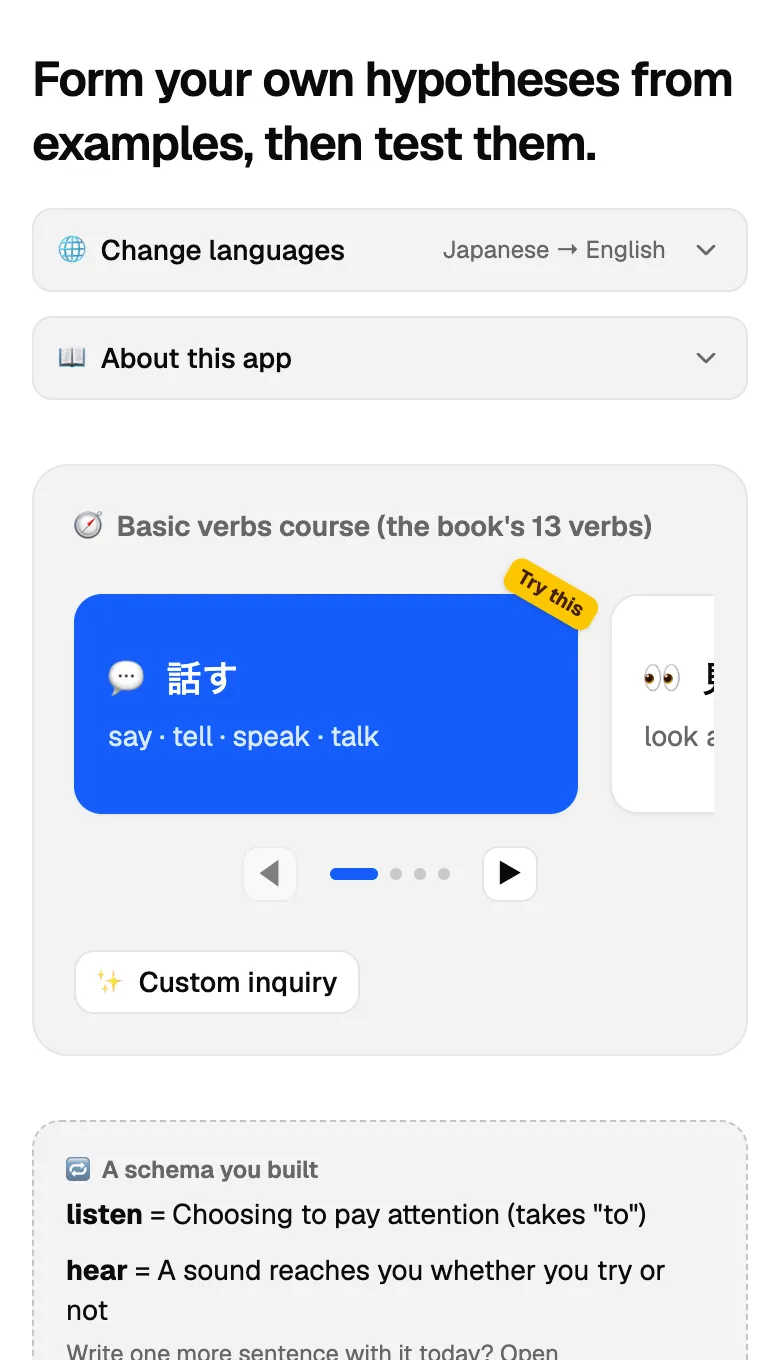
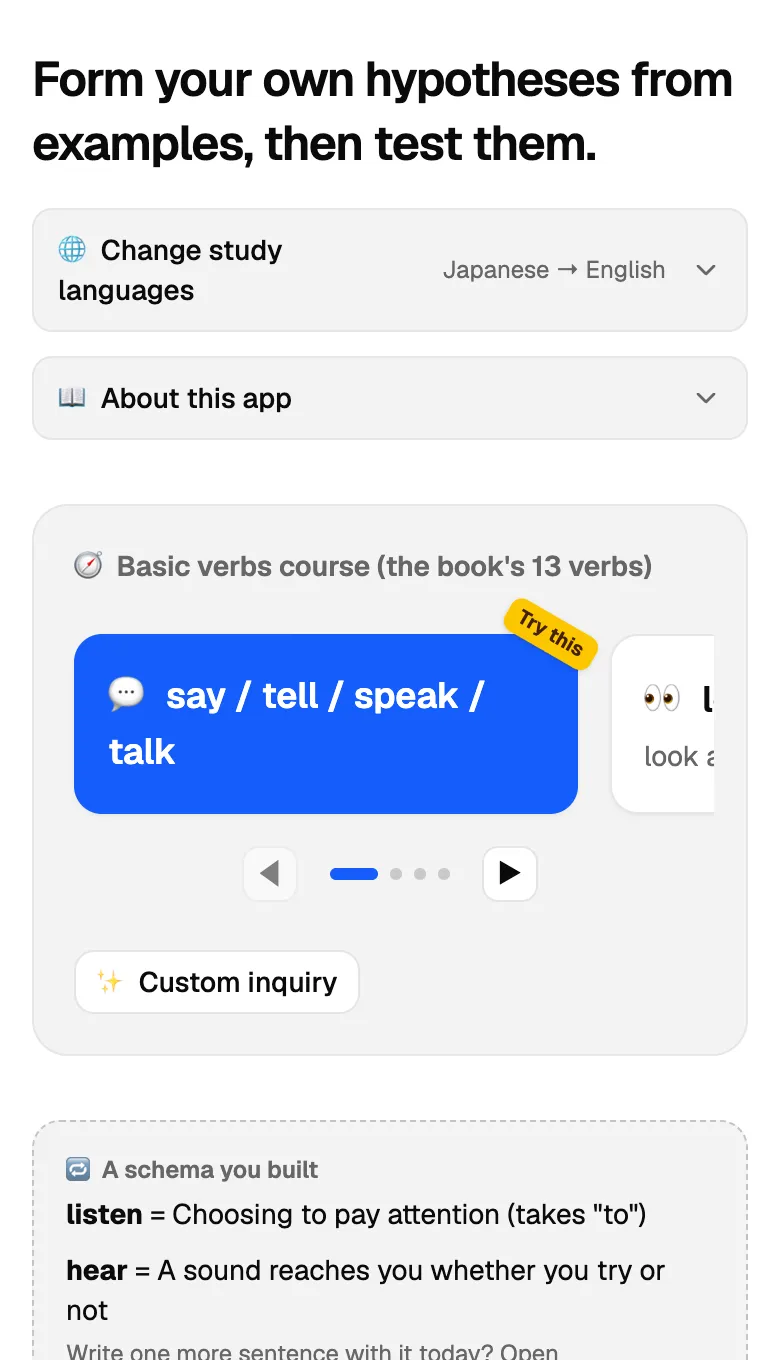
コースグループ名も l1 ではなく画面の言語で出す
新規探究ダイアログのタイトルが、画面を英語にしても l1（学習者の母語）
の「話す」のままだった。まわりの説明文は t() で英語になっているので、
タイトルだけ日本語で浮いていた。#9 で hint を uiLang に直したのと同じ
理由で、画面に出す名前は uiLang で引くようにする。

画面表示は3か所そろえた。タイトルだけ直すと、ホームのカードが「話す」
なのにそこから開いたダイアログが "say / tell / speak / talk" になり、
同じコースが2つの名前で見えてしまうため、ホームのカードと
チュートリアルの最初の課題カードも合わせた。

一方 groupLabel（NewInquiryDialog と tutorial.ts）は l1 のままにした。
これは探究レコードに永続化される値であるうえ、Home の groupProgress が
この文字列との一致で過去の探究を数えている照合キーでもある。uiLang に
すると、画面を英語にした時点で日本語で保存済みの探究に一致しなくなり、
「続きから」や「次は …」が消えて進捗が巻き戻ったように見える。
l1 は学習者ごとに安定していて、画面の言語のように切り替わらない。
照合側の Home.tsx の l1 引きも意図が読めるようコメントを足した。

英語画面ではカードのタイトルが語の一覧そのもの（"say / tell / speak /
talk"）になるため、下のサブタイトル "say · tell · speak · talk" と
ほぼ同じ文字列が2行並んでいた。4グループ中3つが完全な重複で、
「考える」のカードは2行に折り返して隣より高くなっていた。名前と語の
集合が一致するときだけサブタイトルを出さない showsTargetList を足して
対処した。「見る」/ "look / watch / see" は語に "look at" があって
一致しないので、そちらは今までどおり出る。courses.ts のデータ自体は
変えていない。

スクリーンショットは英語の3枚を撮り直した（course / words / genre）。
words と genre はダイアログのタイトルが英語になった分、course は
カードから重複サブタイトルが消えた分。shots.json は course の丸だけが
動いた。高さ 17.9 → 15 はサブタイトル1行分、位置 y 42.8 → 45.7 は
fcec786 の "Change study languages" がこの幅で2行に折り返し、下の
カードが押し下げられた分（撮り直すと現在の main の文言が入るため）。
words と genre の丸は動いていない。英語の /#/help?s=1..3 を開いて、
丸が course はカード全体、words は say と tell の2つ、genre は News の
タイルに正しく乗っていることを確認した。日本語側は無変更で、
/#/help?s=2 が「話す」のままであることも確認した。

help-shots.ts のカード検索はサブタイトルの "say · tell · speak · talk"
を見ていたので、英語でそれが消えて撮影が止まった。日英どちらの
区切り文字にも合うように直した。

diff --git a/src/pages/Home.tsx b/src/pages/Home.tsx
@@ -11,7 +11,7 @@ import { Recommended, RecommendedBadge } from "@/components/ui/recommended";
 import { Carousel } from "@/components/ui/carousel";
 import { LanguageFields } from "@/components/LanguageFields";
 import { Welcome } from "@/components/tutorial/Welcome";
-import { courses, languageName, type CourseGroup } from "@/lib/courses";
+import { courses, languageName, showsTargetList, type CourseGroup } from "@/lib/courses";
 import { db, deleteInquiry } from "@/lib/db";
 import type { Inquiry } from "@/lib/types";
 import { useT } from "@/lib/i18n";
@@ -24,6 +24,7 @@ import { cn } from "@/lib/utils";
  * tutorial), recognized by their group label; "done" once they have covered every word of the group between them.
  */
 function groupProgress(g: CourseGroup, inquiries: Inquiry[], l1: string, l2: string) {
+  // The l1 label, because that is what was saved as groupLabel; the card above shows the uiLang one.
   const label = g.label[l1] ?? g.label.en;
   const own = inquiries.filter((inq) => inq.l1 === l1 && inq.l2 === l2 && inq.groupLabel === label);
   const covered = new Set(own.flatMap((inq) => inq.targets.map((x) => x.label)));
@@ -136,8 +137,8 @@ export function Home() {
                   )}
                 >
                   {recommended && <RecommendedBadge />}
-                  <div className="text-lg font-semibold"><span className="mr-2">{g.emoji}</span>{g.label[defaultL1] ?? g.label.en}</div>
-                  <div className={cn("mt-1 text-sm", recommended ? "text-blue-100" : "text-muted-foreground")}>{g.targets.map((x) => x.label).join(" · ")}</div>
+                  <div className="text-lg font-semibold"><span className="mr-2">{g.emoji}</span>{g.label[uiLang] ?? g.label.en}</div>
+                  {showsTargetList(g, uiLang) && <div className={cn("mt-1 text-sm", recommended ? "text-blue-100" : "text-muted-foreground")}>{g.targets.map((x) => x.label).join(" · ")}</div>}
                   {latest ? (
                     <div className="mt-2 text-xs font-medium text-muted-foreground">{t({ ja: "▶ 続きから", en: "▶ Continue" })}</div>
                   ) : started && (

diff --git a/src/components/tutorial/Welcome.tsx b/src/components/tutorial/Welcome.tsx
@@ -12,6 +12,7 @@ import { Input } from "@/components/ui/input";
 import { Recommended } from "@/components/ui/recommended";
 import { StepDots } from "@/components/ui/step-dots";
 import { importAll } from "@/lib/backup";
+import { showsTargetList } from "@/lib/courses";
 import { useT } from "@/lib/i18n";
 import { setTutorial, useSettings } from "@/lib/settings";
 import { startTutorial, tutorialGroup } from "@/lib/tutorial";
@@ -24,7 +25,7 @@ import { cn } from "@/lib/utils";
  */
 export function Welcome() {
   const t = useT();
-  const { defaultL1, defaultL2, provider } = useSettings();
+  const { uiLang, defaultL1, defaultL2, provider } = useSettings();
   const nav = useNavigate();
   const [mode, setMode] = useState<"tour" | "import">("tour");
   const [step, setStep] = useState(0);
@@ -108,8 +109,8 @@ export function Welcome() {
           <h1 className="text-2xl font-semibold tracking-tight">{t({ ja: "🎯 最初の課題", en: "🎯 Your first task" })}</h1>
           {group ? (
             <div className="mt-6 rounded-xl border border-blue-600/40 bg-blue-50 p-4 shadow-xs dark:bg-blue-950/30">
-              <div className="text-lg font-semibold"><span className="mr-2">{group.emoji}</span>{group.label[defaultL1] ?? group.label.en}</div>
-              <div className="mt-1 text-sm text-muted-foreground">{group.targets.map((x) => x.label).join(" · ")}</div>
+              <div className="text-lg font-semibold"><span className="mr-2">{group.emoji}</span>{group.label[uiLang] ?? group.label.en}</div>
+              {showsTargetList(group, uiLang) && <div className="mt-1 text-sm text-muted-foreground">{group.targets.map((x) => x.label).join(" · ")}</div>}
             </div>
           ) : (
             <div className="mt-6 grid gap-3">

diff --git a/src/components/inquiry/NewInquiryDialog.tsx b/src/components/inquiry/NewInquiryDialog.tsx
@@ -46,7 +46,7 @@ export function NewInquiryDialog({
   onOpenChange: (o: boolean) => void;
 }) {
   const t = useT();
-  // The hint sits on the same line as t()-translated copy, so it follows the screen language, not l1.
+  // The title and hint sit among t()-translated copy, so they follow the screen language, not l1.
   const { uiLang } = useSettings();
   const nav = useNavigate();
   const [step, setStep] = useState(0);
@@ -75,6 +75,7 @@ export function NewInquiryDialog({
     const inq = await createInquiry({
       l1,
       l2,
+      // Stays in l1: it is the key Home's groupProgress matches past inquiries by, so it must not follow the screen.
       groupLabel: group ? group.label[l1] ?? group.label.en : undefined,
       targets: chosen,
       question: question.trim() || undefined,
@@ -109,7 +110,7 @@ export function NewInquiryDialog({
     </form>
   );
 
-  const title = group ? `${group.emoji} ${group.label[l1] ?? group.label.en}` : t({ ja: "✨ 自由に探究する", en: "✨ Custom inquiry" });
+  const title = group ? `${group.emoji} ${group.label[uiLang] ?? group.label.en}` : t({ ja: "✨ 自由に探究する", en: "✨ Custom inquiry" });
 
   return (
     <Dialog open={open} onOpenChange={onOpenChange}>

diff --git a/src/lib/courses.ts b/src/lib/courses.ts
@@ -2,10 +2,25 @@ import type { Target } from "./types";
 
 export interface CourseGroup {
   id: string;
-  label: Record<string, string>; // L1 label keyed by l1 code, with fallback "en"
+  /**
+   * The group's name, keyed by language code with fallback "en". Shown on screen in uiLang;
+   * the copy saved on an inquiry as `groupLabel` stays in l1 (see Inquiry.groupLabel).
+   */
+  label: Record<string, string>;
   emoji: string;
   targets: Omit<Target, "id">[];
   hint?: Record<string, string>; // UI copy keyed by uiLang code, with fallback "en"
+}
+
+/**
+ * Whether the group's word list is worth showing under its name. In English the name often *is* the
+ * list ("say / tell / speak / talk"), so repeating it below adds nothing and only makes the card taller;
+ * where the two differ (「見る」/ "look / watch / see" vs the target "look at") the list still earns its place.
+ */
+export function showsTargetList(g: CourseGroup, lang: string) {
+  const name = (g.label[lang] ?? g.label.en).split("/").map((x) => x.trim().toLowerCase());
+  const targets = g.targets.map((x) => x.label.trim().toLowerCase());
+  return name.length !== targets.length || targets.some((x) => !name.includes(x));
 }
 
 export interface Course {

diff --git a/scripts/help-shots.ts b/scripts/help-shots.ts
@@ -41,7 +41,8 @@ interface ShotDef {
 }
 
 // The demo inquiry finishes "聞く" (which then reopens it), so the course slides use "話す", the recommended next group.
-const courseCard = (page: Page) => page.getByRole("button", { name: /say · tell · speak · talk/ });
+// The words read "say · tell · speak · talk" under the Japanese name and "say / tell / speak / talk" as the English name itself.
+const courseCard = (page: Page) => page.getByRole("button", { name: /say [·/] tell [·/] speak [·/] talk/ });
 const dialog = (page: Page) => page.getByRole("dialog");
 const card = (page: Page, id: string) => page.locator(`#card-demo-${id}`);
 

diff --git a/src/lib/tutorial.ts b/src/lib/tutorial.ts
@@ -45,6 +45,7 @@ export async function startTutorial(l1: string, l2: string, custom: Omit<Target,
   const inq = await createInquiry({
     l1,
     l2,
+    // Stays in l1, like NewInquiryDialog's: Home's groupProgress matches past inquiries by this exact string.
     groupLabel: !custom && group ? group.label[l1] ?? group.label.en : undefined,
     targets,
     genre: s.genre,
